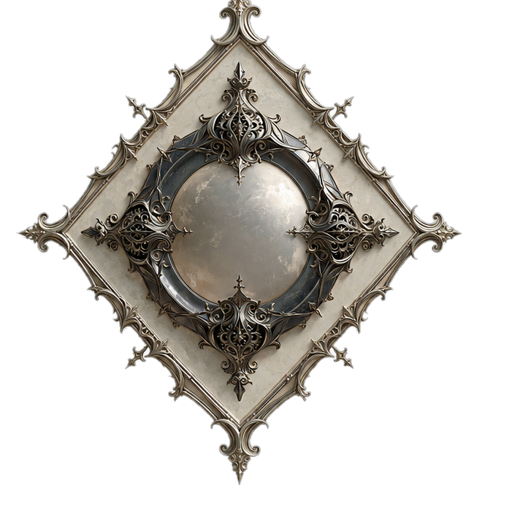
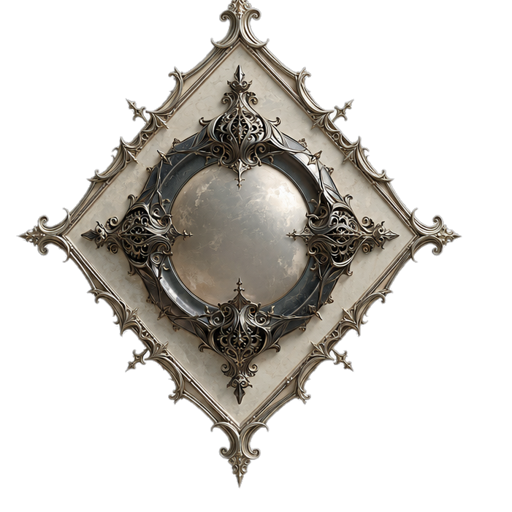
Relic gems: size to the socket and stop the down-right bleed
The 42% gem overshot the socket and spilled into the bezel/filigree, and my prior
frame shift over-corrected so it bled down-right. Re-derived the frames from the clean
sources with smaller, per-frame shifts (the socket sits down-right of the diamond's
geometric centre, and further so on the alt frame), and dropped the gem to 38% so it
fills the pearl socket without spilling. Glyph was already centred in the gem; it rides
along. Calibrated by matching a gem ring to each pearl.

Claude-Session: https://claude.ai/code/session_01JbsNTb2Jvjps6CqMJRSas3

Changed region(s): [[0.0312, 0.0, 0.9062, 0.9375]]

diff --git a/style.css b/style.css
@@ -1488,12 +1488,12 @@ body[data-deal="house"] .hand .cicon { width: 46px; height: 46px; padding: 5px; 
 /* Relic (boss-trophy) emblems wear an ornate diamond bezel instead of the round
    medallion; the category gem seats in the diamond's central socket (smaller than
    the round frame's). Wildcard gets its own distinct diamond. */
-.charmemblem.ce-relic .ce-frame { background-image: url('assets/charms/relic-frame.png?v=3'); }
-.charmemblem.ce-relic.ce-relic-wild .ce-frame { background-image: url('assets/charms/relic-frame-wild.png?v=3'); }
+.charmemblem.ce-relic .ce-frame { background-image: url('assets/charms/relic-frame.png?v=4'); }
+.charmemblem.ce-relic.ce-relic-wild .ce-frame { background-image: url('assets/charms/relic-frame-wild.png?v=4'); }
 /* The diamond's socket is larger than the round medallion's, so the gem fills more
    of it (42% vs 37%) — a small gem left a big lit pearl showing asymmetrically, which
    read as off-centre. At this size the standard glyph fits, so no glyph rescale. */
-.charmemblem.ce-relic .ce-gem { width: 42%; height: 42%; }
+.charmemblem.ce-relic .ce-gem { width: 38%; height: 38%; }
 .deckdock { display: flex; align-items: center; justify-content: center; gap: 16px; margin: 2px 0 4px; }
 .deckdot { width: 54px; height: 54px; border-radius: 11px; border: 2px solid var(--gold-dim); background-size: cover; background-position: center top;
   cursor: pointer; opacity: 0.6; transition: opacity 0.14s ease, transform 0.14s ease, border-color 0.14s ease; }

diff --git a/index.html b/index.html
@@ -6,7 +6,7 @@
 <title>Stonelock — A Game of Regional Leverage</title>
 <link rel="preconnect" href="https://fonts.googleapis.com">
 <link href="https://fonts.googleapis.com/css2?family=Cinzel:wght@500;600;700&family=Alegreya:ital,wght@0,400;0,500;0,600;0,700;1,400;1,500&display=swap" rel="stylesheet">
-<link rel="stylesheet" href="style.css?v=318">
+<link rel="stylesheet" href="style.css?v=319">
 </head>
 <body>
 
